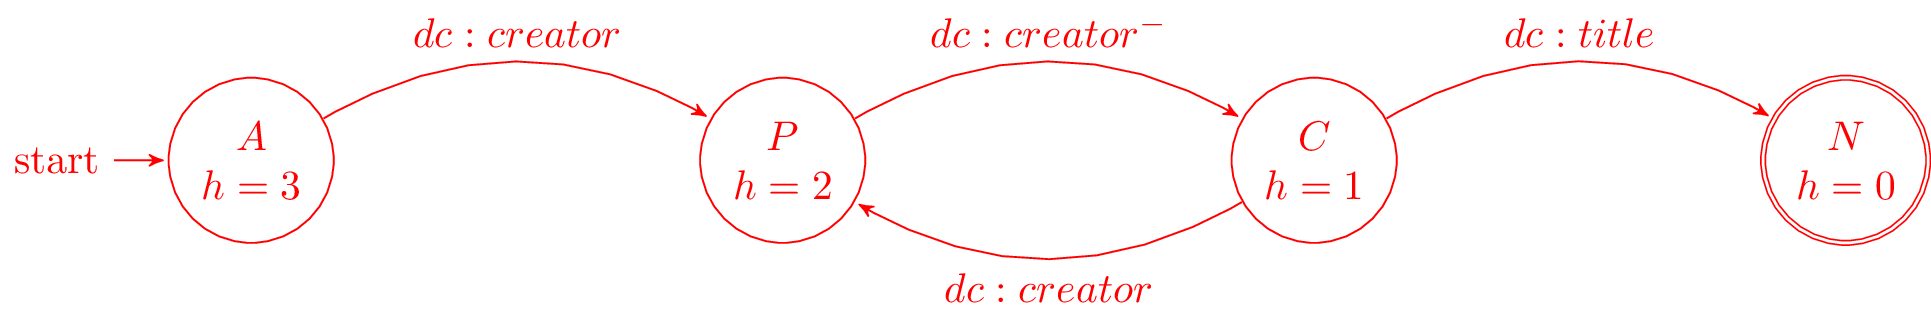
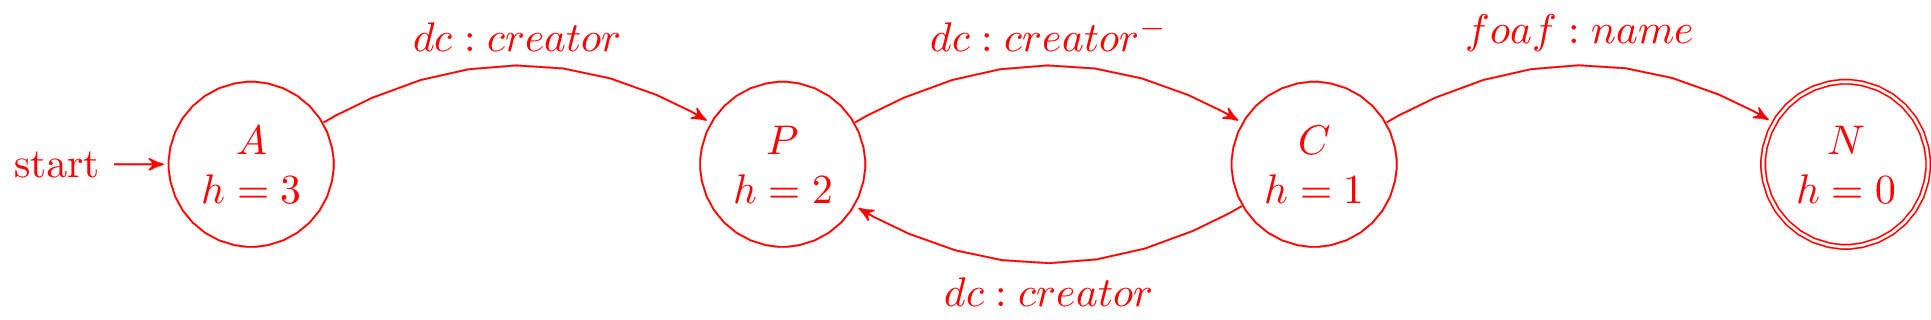
Show query beside the example and fix automaton edges

diff --git a/graphics/coauth-name-h.tex b/graphics/coauth-name-h.tex
@@ -20,7 +20,7 @@
 	\path (A) edge  [bend left]   node {$dc:creator$}   (P)
         (P) edge  [bend left]  node {$dc:creator^{-}$} (C)
         (C) edge  [bend left]  node {$dc:creator$} (P)
-        (C) edge  [bend left]  node {$dc:title$}      (N);
+        (C) edge  [bend left]  node {$foaf:name$}      (N);
 \end{tikzpicture}
 
 \end{document}

diff --git a/graphics/coauth-name-sh.tex b/graphics/coauth-name-sh.tex
@@ -20,7 +20,7 @@
 	\path (A) edge  [bend left]   node {$dc:creator$}   (P)
         (P) edge  [bend left]  node {$dc:creator^{-}$} (C)
         (C) edge  [bend left]  node {$dc:creator$} (P)
-        (C) edge  [bend left]  node {$dc:title$}      (N);
+        (C) edge  [bend left]  node {$foaf:name$}      (N);
 \end{tikzpicture}
 
 \end{document}

diff --git a/graphics/coauth-name.tex b/graphics/coauth-name.tex
@@ -20,7 +20,7 @@
 	\path (A) edge  [bend left]   node {$dc:creator$}   (P)
         (P) edge  [bend left]  node {$dc:creator^{-}$} (C)
         (C) edge  [bend left]  node {$dc:creator$} (P)
-        (C) edge  [bend left]  node {$dc:title$}      (N);
+        (C) edge  [bend left]  node {$foaf:name$}      (N);
 \end{tikzpicture}
 
 \end{document}
